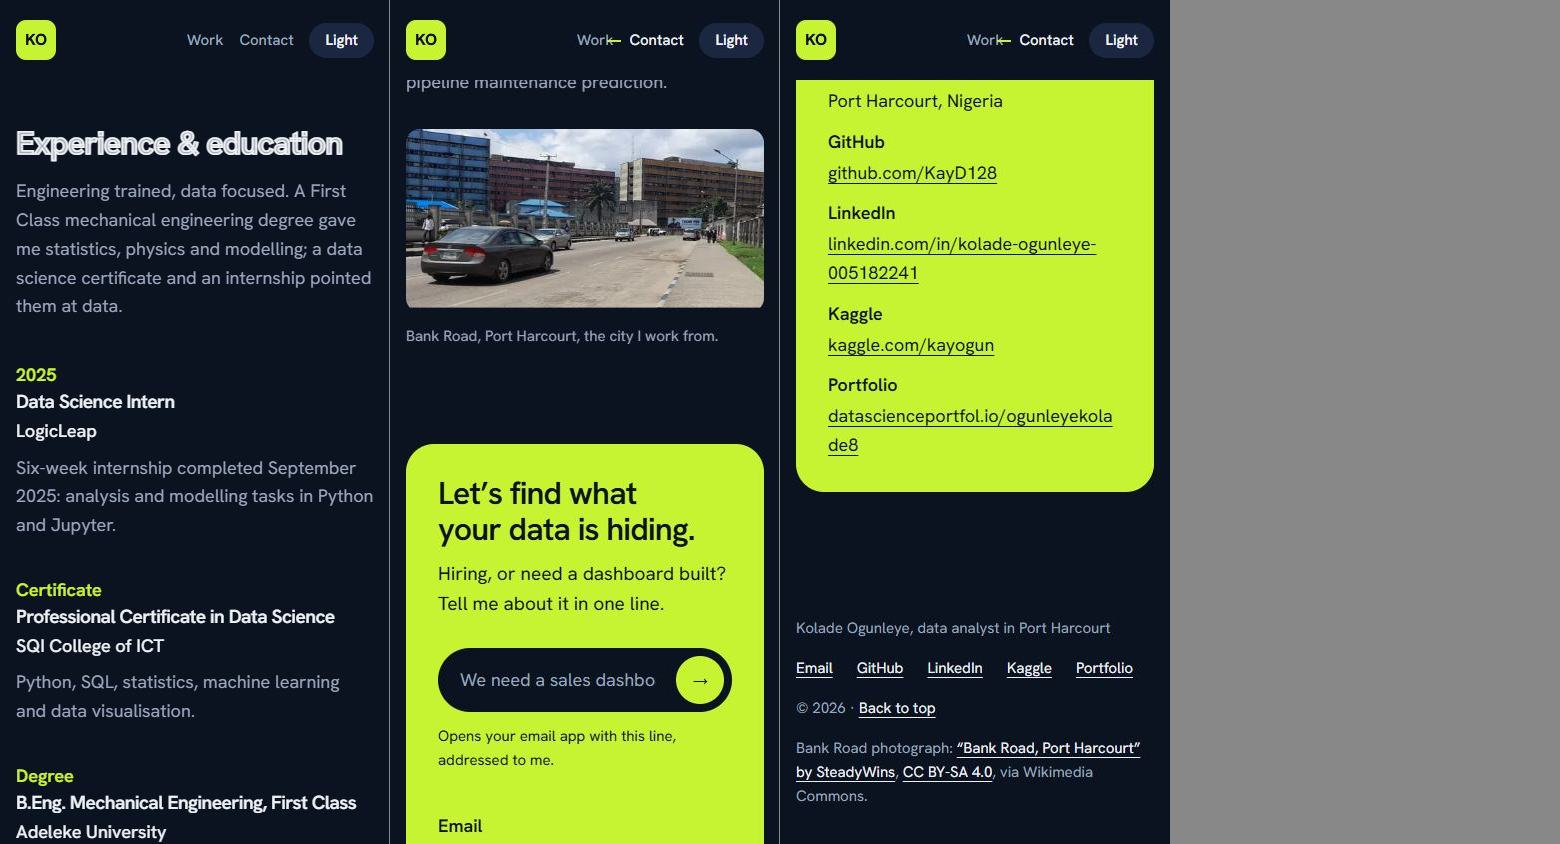
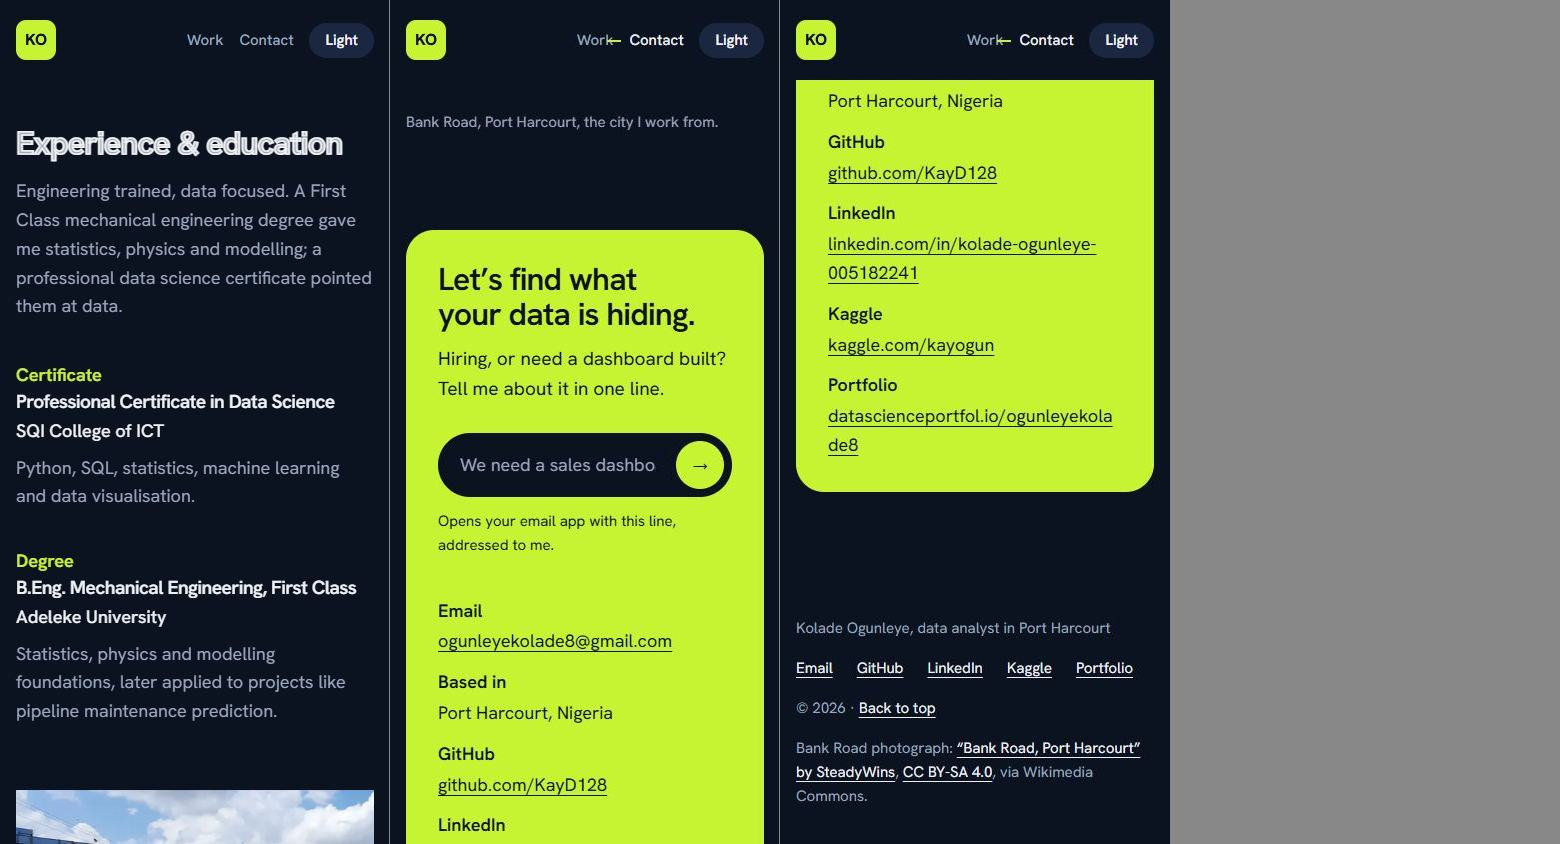
new changes

Changed region(s): [[0.0, 0.0924, 0.4923, 0.9858], [0.0, 0.4313, 0.2462, 0.8626], [0.0, 0.8934, 0.2462, 1.0]]

diff --git a/kolade-portfolio/app/page.tsx b/kolade-portfolio/app/page.tsx
@@ -23,7 +23,6 @@ const skills = [
 ];
 
 const experience = [
-  { when: "2025", title: "Data Science Intern", org: "LogicLeap", text: "Six-week internship completed September 2025: analysis and modelling tasks in Python and Jupyter." },
   { when: "Certificate", title: "Professional Certificate in Data Science", org: "SQI College of ICT", text: "Python, SQL, statistics, machine learning and data visualisation." },
   { when: "Degree", title: "B.Eng. Mechanical Engineering, First Class", org: "Adeleke University", text: "Statistics, physics and modelling foundations, later applied to projects like pipeline maintenance prediction." },
 ];
@@ -148,7 +147,7 @@ export default function Home() {
             <h2>Experience &amp; education</h2>
             <p>
               Engineering trained, data focused. A First Class mechanical engineering degree gave me statistics, physics and modelling;
-              a data science certificate and an internship pointed them at data.
+              a professional data science certificate pointed them at data.
             </p>
           </Reveal>
           <div className="exp">
